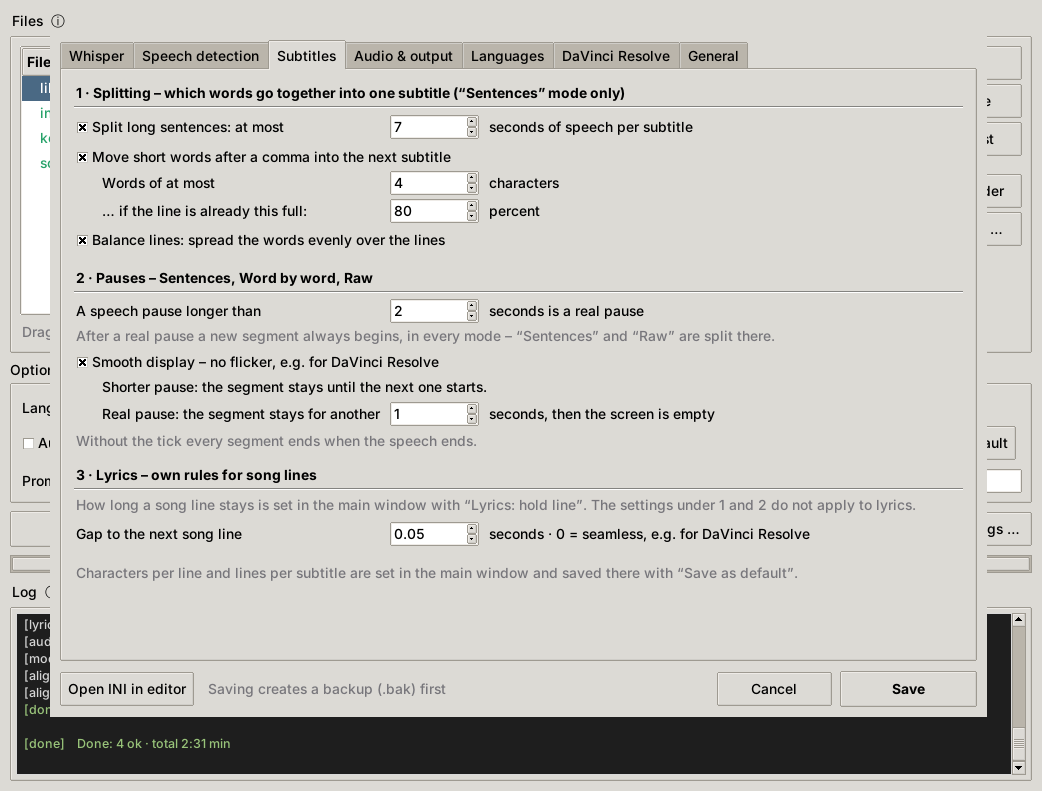
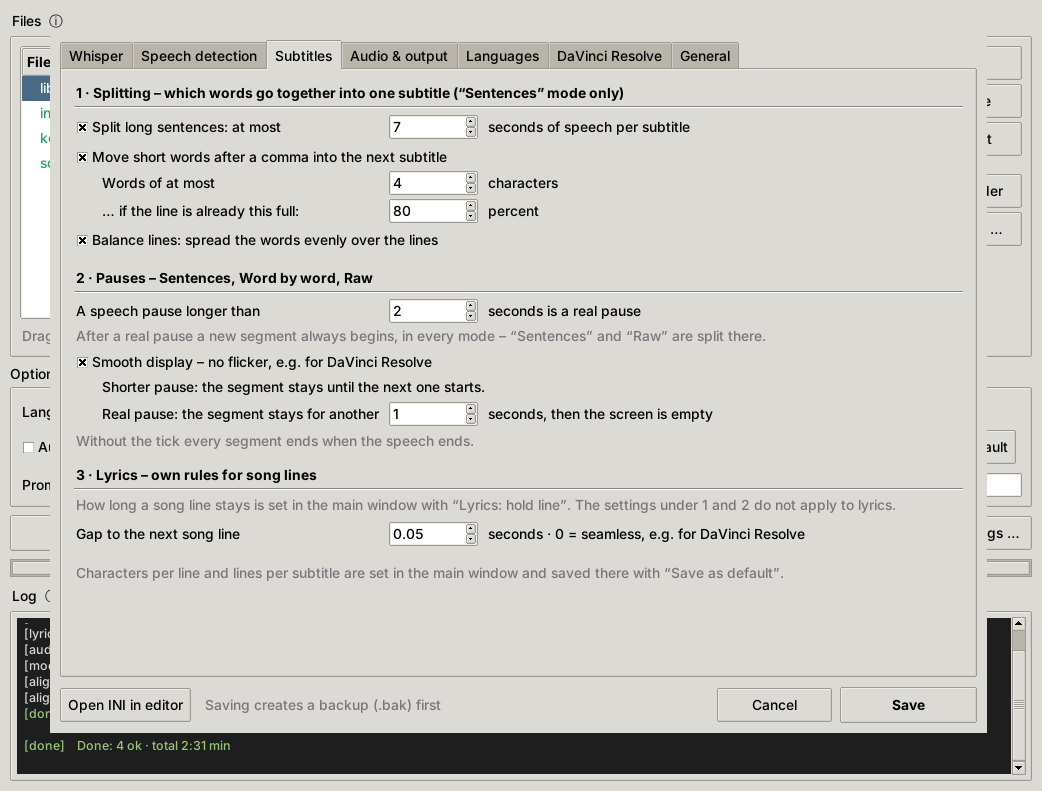
Settings dialog as high as its tallest tab; new settings screenshots
The tab DaVinci Resolve grew by two rows, and with the fixed height of
660 px times the scale the buttons Open INI in editor, Cancel and Save
were cut off. The dialog now takes the height its tallest tab needs
(at least 660 px, at most the screen), and the button bar is packed
before the tabs, so a window made smaller shortens the tabs instead.

docs/images/settings-subtitles.png, settings-resolve.png and
settings-general.png taken again in English under Xvfb at 100 dpi,
like the old ones; the others still match the interface. CLAUDE.md
section 4 now says that Claude takes these screenshots.

Comment limit of whisper_tool.py raised from 130 to 131: the order in
which the button bar and the tabs are packed.

Claude-Session: https://claude.ai/code/session_01QDKquLZPA3UBpqMiHDnjSe

diff --git a/whisper_tool.py b/whisper_tool.py
@@ -1426,7 +1426,6 @@ class SettingsDialog(tk.Toplevel if tk else object):
         self.title(f"{T('set.title')} – {APP_NAME} {VERSION}")
         self.transient(app)
         s = app.scale
-        self.geometry(f"{int(900 * s)}x{int(660 * s)}+{app.winfo_rootx() + 50}+{app.winfo_rooty() + 30}")
         self.minsize(int(720 * s), int(620 * s))
 
         body = ttk.Frame(self, padding=10)
@@ -1445,13 +1444,17 @@ class SettingsDialog(tk.Toplevel if tk else object):
         self.orig_lang = {code: dict(buf) for code, buf in self.lang_buf.items()}
 
         bar = ttk.Frame(body)
-        bar.pack(fill="x", pady=(10, 0))
+        # packed before the tabs: in a window that is too low the tabs get shorter, not the buttons
+        bar.pack(side="bottom", fill="x", pady=(10, 0), before=nb)
         b_ini = ttk.Button(bar, text=T("set.open_ini"), command=lambda: app._open_path(app.ini_path))
         b_ini.pack(side="left")
         tip(b_ini, "ini_open", app.scale)
         ttk.Label(bar, text=T("set.backup_note"), foreground="#77767b").pack(side="left", padx=12)
         ttk.Button(bar, text=T("set.save"), style="Accent.TButton", command=self._save).pack(side="right")
         ttk.Button(bar, text=T("main.cancel"), command=self.destroy).pack(side="right", padx=8)
+        self.update_idletasks()
+        h = min(max(int(660 * s), self.winfo_reqheight()), self.winfo_screenheight() - int(80 * s))
+        self.geometry(f"{int(900 * s)}x{h}+{app.winfo_rootx() + 50}+{app.winfo_rooty() + 30}")
         self.grab_set()
         self.focus_set()
 

diff --git a/CHANGELOG.md b/CHANGELOG.md
@@ -8,6 +8,8 @@ All notable changes to WhisperX Subtitle Workbench. Versioning follows [Semantic
 
 - **Plugin window closes after the import.** After an import without errors the plugin window in DaVinci Resolve closes after 10 seconds; the status line counts down. *OK* closes it at once, *Transcribe* or *Import SRT …* stops the countdown. After a warning about the number or position of the subtitles it stays open. *Settings → DaVinci Resolve → 3 · Jobs from DaVinci Resolve* has two new rows: **Close the plugin window after the hand-over, after … seconds** (`[Resolve] close_plugin`, 0 = stays open) and **Close it after a warning too** (`close_plugin_warning`). The Workbench sends both with the hand-over (`done.txt`)
 - The system check no longer lists an own model that is switched off; it lists the own models that are on
+- The settings dialog takes the height that its tallest tab needs. Before, the buttons *Open INI in editor*, *Cancel* and *Save* could be cut off at the bottom. In a window made smaller by hand the tabs get shorter, not the buttons
+- New screenshots of *Settings → Subtitles*, *DaVinci Resolve* and *General* in the README
 - **Tested versions:** ctranslate2 4.8.5 (security fixes for loading model files, FP16 and BF16 attention on CUDA), certifi 2026.10.23, urllib3 2.8.0, requests 2.34.2, idna 3.20 and charset-normalizer 3.5.2 (downloads from Hugging Face). No other package changes
 
 ## [0.7.7] – 2026-11-07

diff --git a/CLAUDE.md b/CLAUDE.md
@@ -181,9 +181,10 @@ Version: `# INI without [Score]`, nicht `# INI of 0.6.3`.
 - Ein Reiter des Einstellungsdialogs ist ein einziges Grid, damit die Zahlenfelder
   untereinander stehen. Zeilen, die nicht dazu passen, bekommen ein eigenes Frame
   (Beispiel: Plugin-Status in `_tab_resolve`).
-- Die Bildschirmfotos in `docs/images/` zeigen die englische Oberfläche unter Windows.
-  Ändert sich ein Dialog, wird das Bild neu aufgenommen. Das kann nur der Betreiber;
-  Claude nennt in der Antwort, welches Bild veraltet ist.
+- Die Bildschirmfotos in `docs/images/` zeigen die englische Oberfläche der Workbench,
+  aufgenommen unter Linux mit Xvfb (100 dpi, Hauptfenster 1042 × 791). Ändert sich ein Dialog
+  oder ein Text darin, nimmt Claude das Bild neu auf und nennt es in der Antwort. Bilder aus
+  DaVinci Resolve nimmt der Betreiber auf.
 
 ## 5. Ablauf
 
